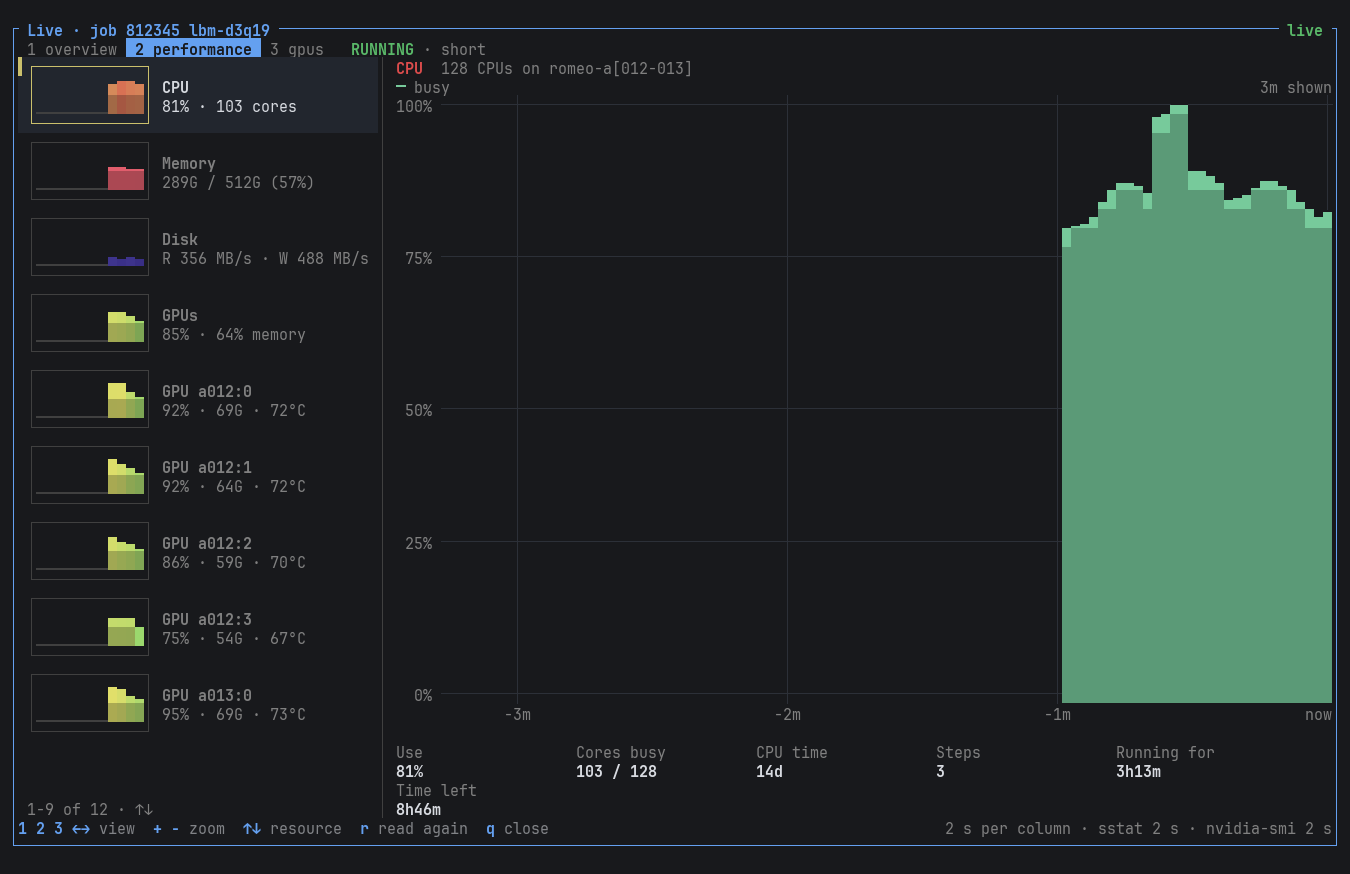
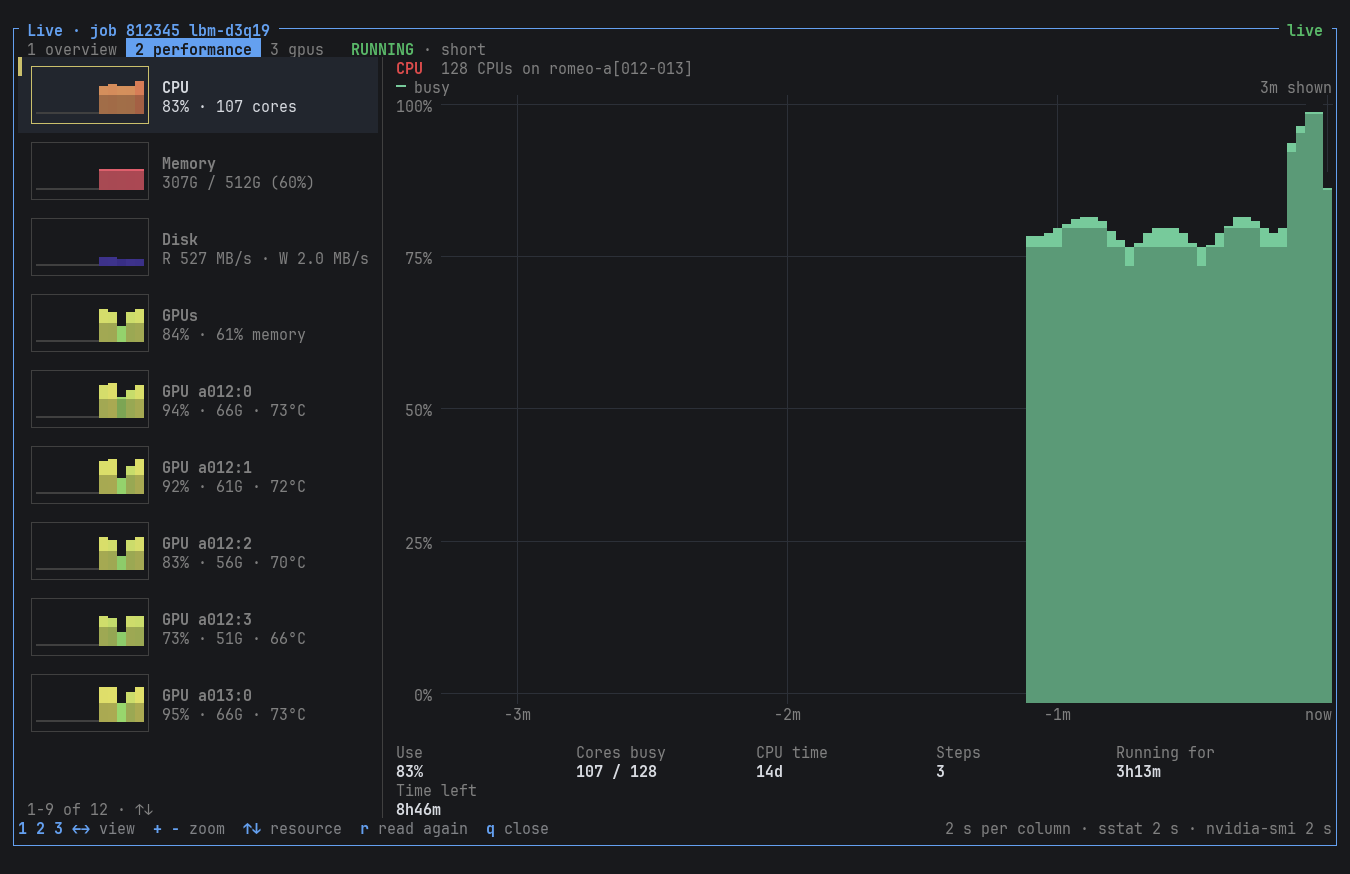
Docs: the live view in its own section with a GIF of its four tabs; README and screenshots up to date

diff --git a/tests/screenshots.py b/tests/screenshots.py
@@ -5,7 +5,9 @@
     python3 tests/screenshots.py --ssh romeo --dir '~/RSV'   # on ROMEO (built there), drawn here
 
 Needs pyte and Pillow where it runs (pip install pyte pillow), only the standard library on the remote side.
-Writes img/rsv.gif, img/history.png, img/log.png, img/cluster.png, img/nodes.png, img/node.png and img/hardware.png.
+Writes img/rsv.gif, img/history.png, img/log.png, img/cluster.png, img/nodes.png, img/node.png and img/hardware.png,
+then the live view's: img/live.gif, img/live.png, img/live-performance.png, img/gpus.png and img/inference.png
+(--only main or --only live for one part: the live view waits a minute for its curves).
 """
 
 import argparse
@@ -48,8 +50,74 @@ def main():
     p.add_argument("--out", default=os.path.join(REPO, "img"))
     p.add_argument("--cols", type=int, default=140)
     p.add_argument("--rows", type=int, default=40)
+    p.add_argument("--only", choices=["main", "live"])
     args = p.parse_args()
+    if args.only != "live":
+        main_shots(args)
+    if args.only != "main":
+        live_shots(args)
 
+
+def live_shots(args):
+    """The live view (m) of the 2-node job, then of the model server: a minute first, for curves to draw"""
+    t = Term(command(args), cols=150, rows=46)
+    frames = []
+
+    def shot(seconds, keys=None, settle=0.8):
+        if keys:
+            for k in keys.split(","):
+                t.send(k)
+                t.sleep(0.15)
+        t.sleep(settle)
+        frames.append((t.snapshot(), int(seconds * 1000)))
+        return t.snapshot()
+
+    if not t.wait_for("lbm-d3q19", 20):
+        print(t.text())
+        sys.exit("RSV didn't start")
+    t.sleep(1)
+    t.send("m")
+    t.sleep(60)
+    live_png = shot(3.0, None, 0.2)          # overview: CPUs, GPUs, memory, disk, steps
+    for _ in range(3):
+        shot(0.8, None, 1.8)                 # the curves move
+    shot(2.0, "v", 1.0)                      # v: braille
+    shot(1.5, "v,v", 1.0)                    # back to areas
+    perf_png = shot(3.0, "2", 1.0)           # performance: the resources, the one picked
+    shot(1.6, "j", 0.8)
+    shot(1.6, "j,j,j", 0.8)                  # the GPUs
+    shot(1.6, "3", 12)                       # the GPUs in depth: GPM counters, processes
+    gpus_png = shot(2.4, "j", 1.5)           # the GPU busy on few SMs
+    shot(1.6, "j", 1.0)
+    t.send("q")
+    t.sleep(0.5)
+    t.send("j")
+    t.sleep(0.3)
+    t.send("j")
+    t.sleep(0.3)
+    t.send("i")                              # the vLLM job: its server, found from its log
+    shot(1.6, None, 2.5)
+    t.sleep(45)
+    inference_png = shot(4.0, None, 0.2)
+    for _ in range(3):
+        shot(0.8, None, 1.8)
+    shot(2.0, "1", 1.0)                      # the same job's overview
+    t.send("q")
+    t.sleep(0.3)
+    t.send("q")
+    t.wait_exit(5)
+    t.close()
+
+    os.makedirs(args.out, exist_ok=True)
+    save_gif([render_png(cells) for cells, _ in frames], os.path.join(args.out, "live.gif"), [d for _, d in frames])
+    for cells, name in ((live_png, "live.png"), (perf_png, "live-performance.png"), (gpus_png, "gpus.png"), (inference_png, "inference.png")):
+        render_png(cells, os.path.join(args.out, name))
+    for name in ("live.gif", "live.png", "live-performance.png", "gpus.png", "inference.png"):
+        path = os.path.join(args.out, name)
+        print("%s: %d KB" % (path, os.path.getsize(path) // 1024))
+
+
+def main_shots(args):
     t = Term(command(args), cols=args.cols, rows=args.rows)
     frames = []
 

diff --git a/src/components/inference_view.hpp b/src/components/inference_view.hpp
@@ -124,8 +124,9 @@ struct InferenceServer {
         if (r.waiting >= 0) waiting.add(at, r.waiting);
         if (r.kv_usage >= 0) kv.add(at, std::min(1.0, r.kv_usage));
 
-        // Over the last 30 s
-        if (const auto* b = before(at, 30)) {
+        // Over the last 30 s, once there are 10 s: a p95 of the few requests of 2 s says nothing
+        const auto* b = before(at, 30);
+        if (b && !kept.empty() && at - kept.front().at >= 10) {
             const double dq = delta(r.prefix_queries, b->prefix_queries), dh = delta(r.prefix_hits, b->prefix_hits);
             if (dq > 0 && dh >= 0) prefix_hit.add(at, std::min(1.0, dh / dq));
             const auto quantiles = [&](const api::Histogram& now, const api::Histogram& then, Series& p50, Series& p95) {

diff --git a/docs/usage.md b/docs/usage.md
@@ -57,9 +57,9 @@ Under it, when there is room, the last lines of the job's output.
 | `a` | History | Your jobs of the last 7 days (`sacct`), what they used, see below. `←` `→` filter by state, `s` sort, `r` read again. |
 | `p` | Cluster | All of ROMEO, read again every 15 s while open, in four tabs: `←` `→` (or `Tab`, `1` to `4`) change tabs everywhere in it. See below. |
 | `t` | Start time | When would a job start? Account, partition, constraint, nodes, cores, GPUs, memory and time: `Enter` asks Slurm (`sbatch --test-only`, nothing is submitted) and shows when and where, or why it can't. |
-| `i` | Model server | The server of models a running job runs, live (the fourth view of `m`): vLLM, SGLang, TGI, llama.cpp, Triton or Ollama, found without being told. RSV reads the job's output, errors and script for the engine and the address it listens on (`Uvicorn running on http://0.0.0.0:8000`, `--port 8000`), then asks each place for its Prometheus metrics (`GET /metrics` on the job's nodes, from the login node: nothing runs in the job). Each engine names its metrics its own way; RSV reads them all as the same figures, and shows what an engine doesn't give as nothing. At the top the engine, the model and its address; what is wrong (requests preempted: the KV cache was full; requests waiting for 10 s or more; KV cache over 90%; requests aborted; GPUs busy but no token; few drafted tokens accepted; KV cache under 5% for minutes with never a queue: it could serve many more at once, or run on fewer GPUs; no request for 5 minutes; most of the prompt from the prefix cache); a tile for each figure with its curve (tokens generated and read per second, requests running and waiting, KV cache, prefix cache hits, time to the first token, time per token). Then the tokens per second and the time to the first token (p50, p95) as charts, the latencies over the last minute (first token, per token, whole request, queue, prefill, decode: p50, p95, mean), where a request's time goes, the requests by how long they took, the caches and speculative decoding (the share of drafted tokens kept, at each position), the requests ended and how, their average prompt and answer, and the GPUs' use beside the tokens. Several servers in one job: `↑` `↓`. No server answering yet (a model still loading): what was read and asked, looked again every 15 s; `r` now. Another server, or one RSV doesn't find: `RSV_METRICS_URL=http://{node}:8000/metrics rsv` (`{node}`: each of the job's nodes; several with commas). |
-| `n` | GPUs | A running job's GPUs, live and in depth (the third view of `m`). On the left, grouped by node, each GPU with its curve, use, SM activity, memory, temperature, power and how many processes run on it, `!` when something is wrong. On the right, the one picked (`↑` `↓`, `Enter` for it alone): what is wrong (no process on it: reserved for nothing; slowed down by its power cap or its temperature; busy but on few SMs; uncorrected memory errors, memory rows to remap), its curves (busy, SM activity and occupancy, tensor cores; memory in use and DRAM activity; PCIe/C2C and NVLink traffic), its clocks against their maximum, power against its limit, ECC errors, and its processes with their step and rank. SM, tensor, DRAM and link figures come from Hopper's GPM counters (`nvidia-smi dmon --gpm-metrics`), what DCGM would give; the first two readings have none. |
-| `m` | Live | A running job live, in two views (`1` `2`, `Tab` or `←` `→`; `3` the GPUs, as `n`; `4` its server of models, as `i`, when it runs one). `1` overview: the CPUs' curve and under it the GPUs' (or the memory's), each with its scale; beside them a gauge for the CPUs, memory, GPUs and their memory, and each GPU with its little curve, use and temperature (each step when there is no GPU); under them `memory` (asked, in use with its curve, free, the largest task and its node, GPU memory), `disk` (the bytes its steps read and write per second, reads above and writes under them, with their totals) and `steps` (each step with the cores it keeps busy and their curve, its memory and largest task). `2` performance, as a task manager's: CPU, memory, disk and each GPU on the left with their little curves, the one picked (`↑` `↓`) on the right with its chart, scale, time and figures. `+` `-` zoom in time (1 to 30 s per column, up to the last hour), `v` draws the graphs as areas (the default: solid, their top to an eighth of a character), in braille or in blocks, `r` reads again. `sstat` every 2 s; the GPUs from one `srun --overlap` step that runs `nvidia-smi --loop-ms=2000` while the view is open and ends with it (one step, not one every few seconds). |
+| `m` | Live | A running job live: its CPUs, memory, disk, steps and GPUs, as an overview or as a task manager's. See [the live view](#the-live-view). |
+| `n` | GPUs | The job's GPUs in depth: who uses each, why one is slow (the third tab of `m`). |
+| `i` | Model server | The server of models the job runs, found on its own: tokens, requests, latencies, caches (the fourth tab of `m`). |
 | `u` | Limits | For each of your accounts: its CPU, GPU and job limits and what your jobs use now (`sacctmgr`, `squeue`), its fairshare and the CPU-hours used (`sshare`), then your disk quotas and your projects' (`mmlsquota`), with a warning when one is over. |
 | `?` | Help | |
 
@@ -67,11 +67,57 @@ Under it, when there is room, the last lines of the job's output.
 
 ![The log of a running job, followed](../img/log.png)
 
+## The live view
+
+`m` on a running job, `n` straight to its GPUs, `i` straight to its server of models. Four tabs: `1` `2` `3` `4`, `Tab` or `←` `→` (`h` `l`); `3` only when the job has GPUs, `4` only when it runs a server of models. The key that opened it closes it (`m` from the first two tabs, `n` from the GPUs, `i` from the server; each goes to its tab otherwise), as do `q` and `Esc`.
+
+Everywhere in it: `+` `-` zoom in time (1 to 30 s per column, up to the last hour), `r` reads again. Nothing more runs once it is closed: its Slurm steps end with it.
+
+![The live view: overview, performance, GPUs, then a model server](../img/live.gif)
+
+### 1 overview
+
+The CPUs' curve and under it the GPUs' (or the memory's, without GPUs), each with its scale. Beside them a gauge for the CPUs, memory, GPUs and their memory, and each GPU with its little curve, use and temperature (each step when there is no GPU). Under them:
+
+- `memory`: asked, in use with its curve, free, the largest task and its node, GPU memory.
+- `disk`: the bytes its steps read and write per second (reads above, writes hanging under them, on one scale), with their totals.
+- `steps`: each step with the cores it keeps busy and their curve, its memory and largest task.
+
+The graphs are solid areas, each column in the colour of its value, its top to an eighth of a character; `v` draws them in braille or in blocks instead.
+
 ![A running job live (m): the overview](../img/live.png)
+
+### 2 performance
+
+As a task manager's: CPU, memory, disk, all the GPUs and each one on the left with their little curves, the one picked (`↑` `↓`) on the right with its chart, its scale and time, and its figures.
 
 ![The same, as a task manager's Performance tab](../img/live-performance.png)
 
+### 3 GPUs (`n`)
+
+On the left, grouped by node, each GPU with its curve, use, SM activity, memory, temperature, power and how many processes run on it, `!` when something is wrong. On the right, the one picked (`↑` `↓`, `Enter` for it alone, `Esc` back):
+
+- What is wrong: no process on it (reserved for nothing); slowed down by its power cap or its temperature; busy but on few SMs; uncorrected memory errors, memory rows to remap.
+- Its curves: busy, SM activity and occupancy, tensor cores; memory in use and DRAM activity; PCIe/C2C and NVLink traffic.
+- Its clocks against their maximum, power against its limit, ECC errors, and its processes with their Slurm step and rank.
+
+SM, tensor, DRAM and link figures come from Hopper's GPM counters (`nvidia-smi dmon --gpm-metrics`), what DCGM would give; the first two readings have none. A job that already uses all the processes it may (8192 on ROMEO, a vLLM with Ray can) can't start `dmon`: the view says so and shows the rest.
+
 ![A job's GPUs in depth (n)](../img/gpus.png)
+
+### 4 inference (`i`)
+
+The server of models the job runs: vLLM, SGLang, TGI, llama.cpp, Triton (and TensorRT-LLM) or Ollama, found without being told. RSV reads the job's output, errors and script for the engine and where it listens (`Uvicorn running on http://0.0.0.0:8000`, `--port 8000`), then asks each place for its Prometheus metrics (`GET /metrics` on the job's nodes, from the login node: nothing runs in the job). Each engine names its metrics its own way: RSV reads them all as the same figures, and leaves out what an engine doesn't give. The tab shows only when a server was found (or `i` was pressed).
+
+- At the top: the engine, the model, its address, the requests and tokens since it started.
+- What is wrong, when something is: requests preempted (the KV cache was full: their work is done again); requests waiting for 10 s or more; the KV cache over 90%; requests aborted; GPUs busy but no token (loading, compiling); few drafted tokens accepted; the KV cache under 5% for minutes with never a queue (it could serve many more requests at once, or run on fewer GPUs); no request for 5 minutes; most of the prompt from the prefix cache (long shared contexts: an agent).
+- A tile for each figure, with its curve: tokens generated and read per second, requests running and waiting, KV cache, prefix cache hits, time to the first token (p50), time per token.
+- Charts: the tokens generated per second (alone: an agent's prompt tokens, mostly cached, can be a thousand times more), the time to the first token (p50, p95).
+- `latency`: over the last minute, p50, p95 and mean of the first token, each token, the whole request, its queue, prefill and decode; where a request's time goes; the requests by how long they took.
+- `cache & drafts`: the KV cache and its peak, the prefix cache hits, preemptions, and speculative decoding: the share of drafted tokens kept, tokens per step, at each position of a draft.
+- `requests`: how many ended and how (stop, length, abort, error), per minute, their average prompt and answer, and the GPUs' use beside the tokens over the last 5 minutes.
+
+Rates are over the last 10 s, latencies and cache hits over the last 30 s (from the histograms and counters then and 30 s before): they follow what the server does now. Several servers in one job: `↑` `↓`. None answering yet (a model still loading): what was read and asked, looked at again every 15 s, `r` now. Another server, or one RSV doesn't find: `RSV_METRICS_URL=http://{node}:8000/metrics rsv` (`{node}`: each of the job's nodes; several with commas).
 
 ![The server of models a job runs (i)](../img/inference.png)
 

diff --git a/docs/development.md b/docs/development.md
@@ -10,8 +10,8 @@
 ## Layout
 
 - `src/main.cpp`: options, colors, the `Viewer` (UI state, keys, layout), the workers, the hangup watchdog.
-- `src/api/run.hpp`: runs a command without a shell, with a time limit; `src/api/slurmjobs.hpp`: what RSV asks Slurm about jobs and the parsing of its answers; `arrays.hpp`: arrays and their progress; `cluster.hpp`: the cluster view's data; `usage.hpp`: live use, priority, shares, quotas, the start-time estimate.
-- `src/components/`: the views (list, details, node cells, log, history, partitions, limits, help).
+- `src/api/run.hpp`: runs a command without a shell, with a time limit; `src/api/slurmjobs.hpp`: what RSV asks Slurm about jobs and the parsing of its answers; `arrays.hpp`: arrays and their progress; `cluster.hpp`: the cluster view's data; `usage.hpp`: live use, priority, shares, quotas, the start-time estimate, the live view's GPU steps; `inference.hpp`: finding a job's server of models and reading its Prometheus metrics, one adapter per engine.
+- `src/components/`: the views (list, details, node cells, log, history, partitions, limits, help). The live view: `monitor_view.hpp` (its tabs), `inference_view.hpp` (the model server's), `live.hpp` (readings in time, boxes, gauges), `charts.hpp` (areas, braille and block graphs, sparklines, meters, charts with lines).
 - `src/utils/format.hpp`: widths, cutting, durations, sizes.
 
 Threads: the UI state belongs to FTXUI's thread. Slurm commands run on one worker, file reads on another; they hand their results back with `screen.Post()` (then an event to redraw: in FTXUI 7 a posted task alone doesn't). A timer thread asks for refreshes and watches stdin for the hangup.
@@ -19,6 +19,6 @@ Threads: the UI state belongs to FTXUI's thread. Slurm commands run on one worke
 ## Tests
 
 - `tests/parse_test.cpp`: the parsers on Slurm output recorded on ROMEO (made-up names): `cmake -DRSV_TESTS=ON`, then `ctest` or `./build/parse_test`.
-- `tests/fake-slurm/`: `squeue`, `scontrol`, `sinfo`, `sacct`, `sacctmgr`, `scancel`, `sstat`, `sprio`, `sshare`, `mmlsquota`, `srun`, `sbatch` and `sdiag` with made-up jobs: an array of 200 tasks, colleagues in the same accounts for the project view, logs with errors. Put `tests/fake-slurm/bin` first in `PATH`. `FAKE_SLURM_SCENARIO=empty|many|unicode`, `FAKE_SLURM_DELAY=20` (a hung slurmctld; a `delay` file in the state folder slows it while a test runs), `FAKE_SLURM_FAIL=squeue`. Its `scancel` and `scontrol hold` change nothing real: they mark the jobs in its state folder.
+- `tests/fake-slurm/`: `squeue`, `scontrol`, `sinfo`, `sacct`, `sacctmgr`, `scancel`, `sstat`, `sprio`, `sshare`, `mmlsquota`, `srun` (nvidia-smi, dmon, listpids), `sbatch`, `sdiag` and `curl` (a vLLM's metrics) with made-up jobs: an array of 200 tasks, colleagues in the same accounts for the project view, logs with errors. Put `tests/fake-slurm/bin` first in `PATH`. `FAKE_SLURM_SCENARIO=empty|many|unicode`, `FAKE_SLURM_DELAY=20` (a hung slurmctld; a `delay` file in the state folder slows it while a test runs), `FAKE_SLURM_FAIL=squeue`. Its `scancel` and `scontrol hold` change nothing real: they mark the jobs in its state folder.
 - `tests/tui.py`: runs a program in a pseudo-terminal, answers the terminal queries, sends keys, keeps the screen with `pyte` and draws it with Pillow (`pip install pyte pillow`).
-- `tests/screenshots.py`: the GIF and screenshots of the README, from the fake Slurm. `--ssh romeo --dir '~/RSV'` runs RSV on ROMEO and draws it here.
+- `tests/screenshots.py`: the GIFs and screenshots of the README and the usage, from the fake Slurm (`--only live` for the live view's). `--ssh romeo --dir '~/RSV'` runs RSV on ROMEO and draws it here.

diff --git a/README.md b/README.md
@@ -47,7 +47,10 @@ Then run `rsv`. To update: `cd ~/RSV && git pull && ./install.sh`.
 - Shows where a job runs: its nodes, with their cores (`■`) and GPUs (`●`) in use.
 - Follows the job's output live, with search and its error lines in red, and shows its last lines under the details. Paths open in VS Code (Remote-SSH) with a click.
 - The script a waiting or running job was submitted with.
-- Running jobs: how busy their CPUs are and their memory now, GPUs on demand. Pending ones: their priority and rank in the queue.
+- Running jobs: how busy their CPUs are and their memory now. Pending ones: their priority and rank in the queue.
+- A running job live (`m`): curves of its CPUs, GPUs, memory and disk reads and writes, its steps, and a task manager's Performance view.
+- Its GPUs in depth (`n`): who uses each (Slurm step and rank), why one is slow (power cap, heat, few SMs busy, memory errors), SM and tensor activity, DRAM, PCIe and NVLink.
+- The server of models it runs (`i`): vLLM, SGLang, TGI, llama.cpp, Triton or Ollama, found on its own: tokens per second, requests, latencies, KV and prefix cache, speculative decoding, and what is wrong (preemptions, a queue, a job far bigger than its load).
 - History with CPU, memory and time efficiency, CPU and GPU hours, what was reserved but idle and the time asked but not used.
 - Your project: your colleagues' jobs in your accounts, read-only.
 - Several jobs at once: mark them, then cancel them, after a confirmation that lists them.
@@ -56,6 +59,8 @@ Then run `rsv`. To update: `cd ~/RSV && git pull && ./install.sh`.
 - Your accounts: their limits, fairshare and disk quotas.
 - Never freezes: Slurm is asked in the background, with timeouts, and less often when it is slow. Quits when the SSH connection drops.
 - Works in any terminal, over SSH too: 24-bit colors, aligned columns whatever the names, small windows.
+
+![A job live: overview, performance, GPUs, its model server](img/live.gif)
 
 ## Docs
 
